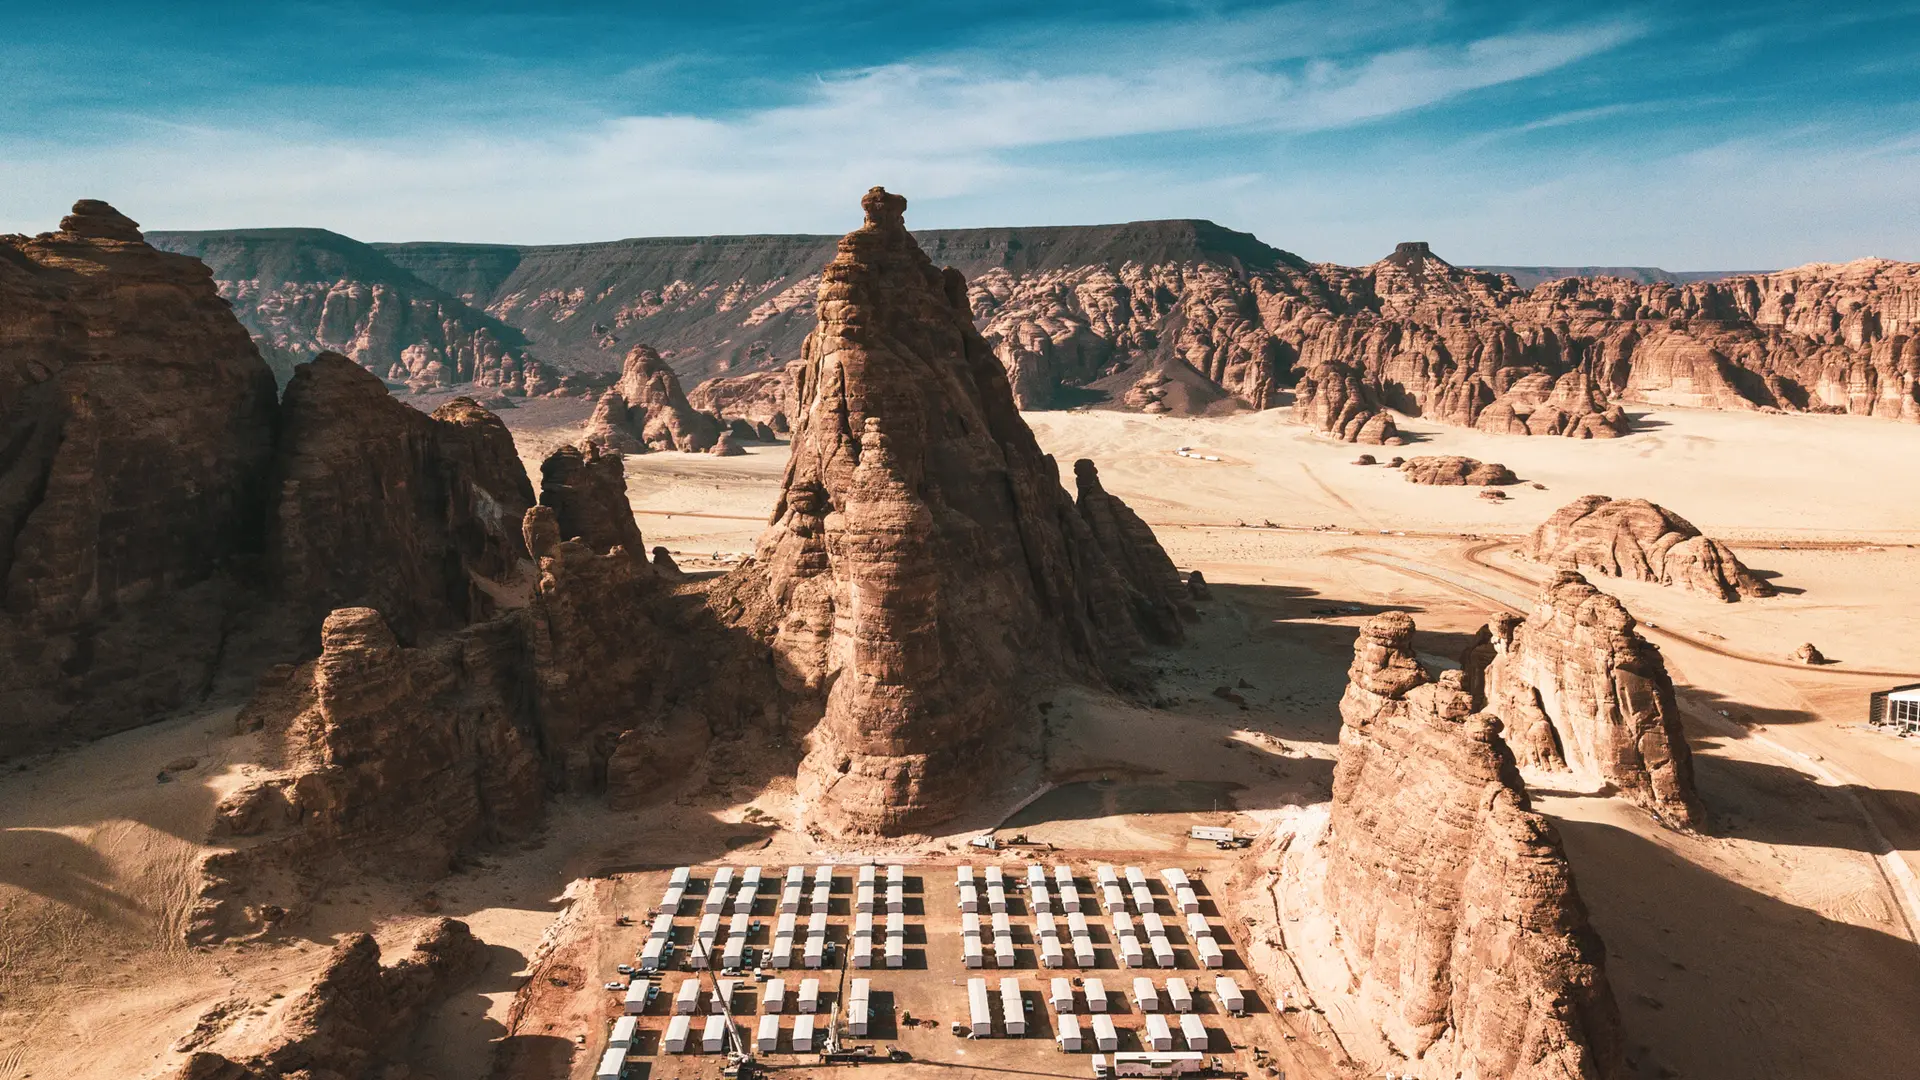
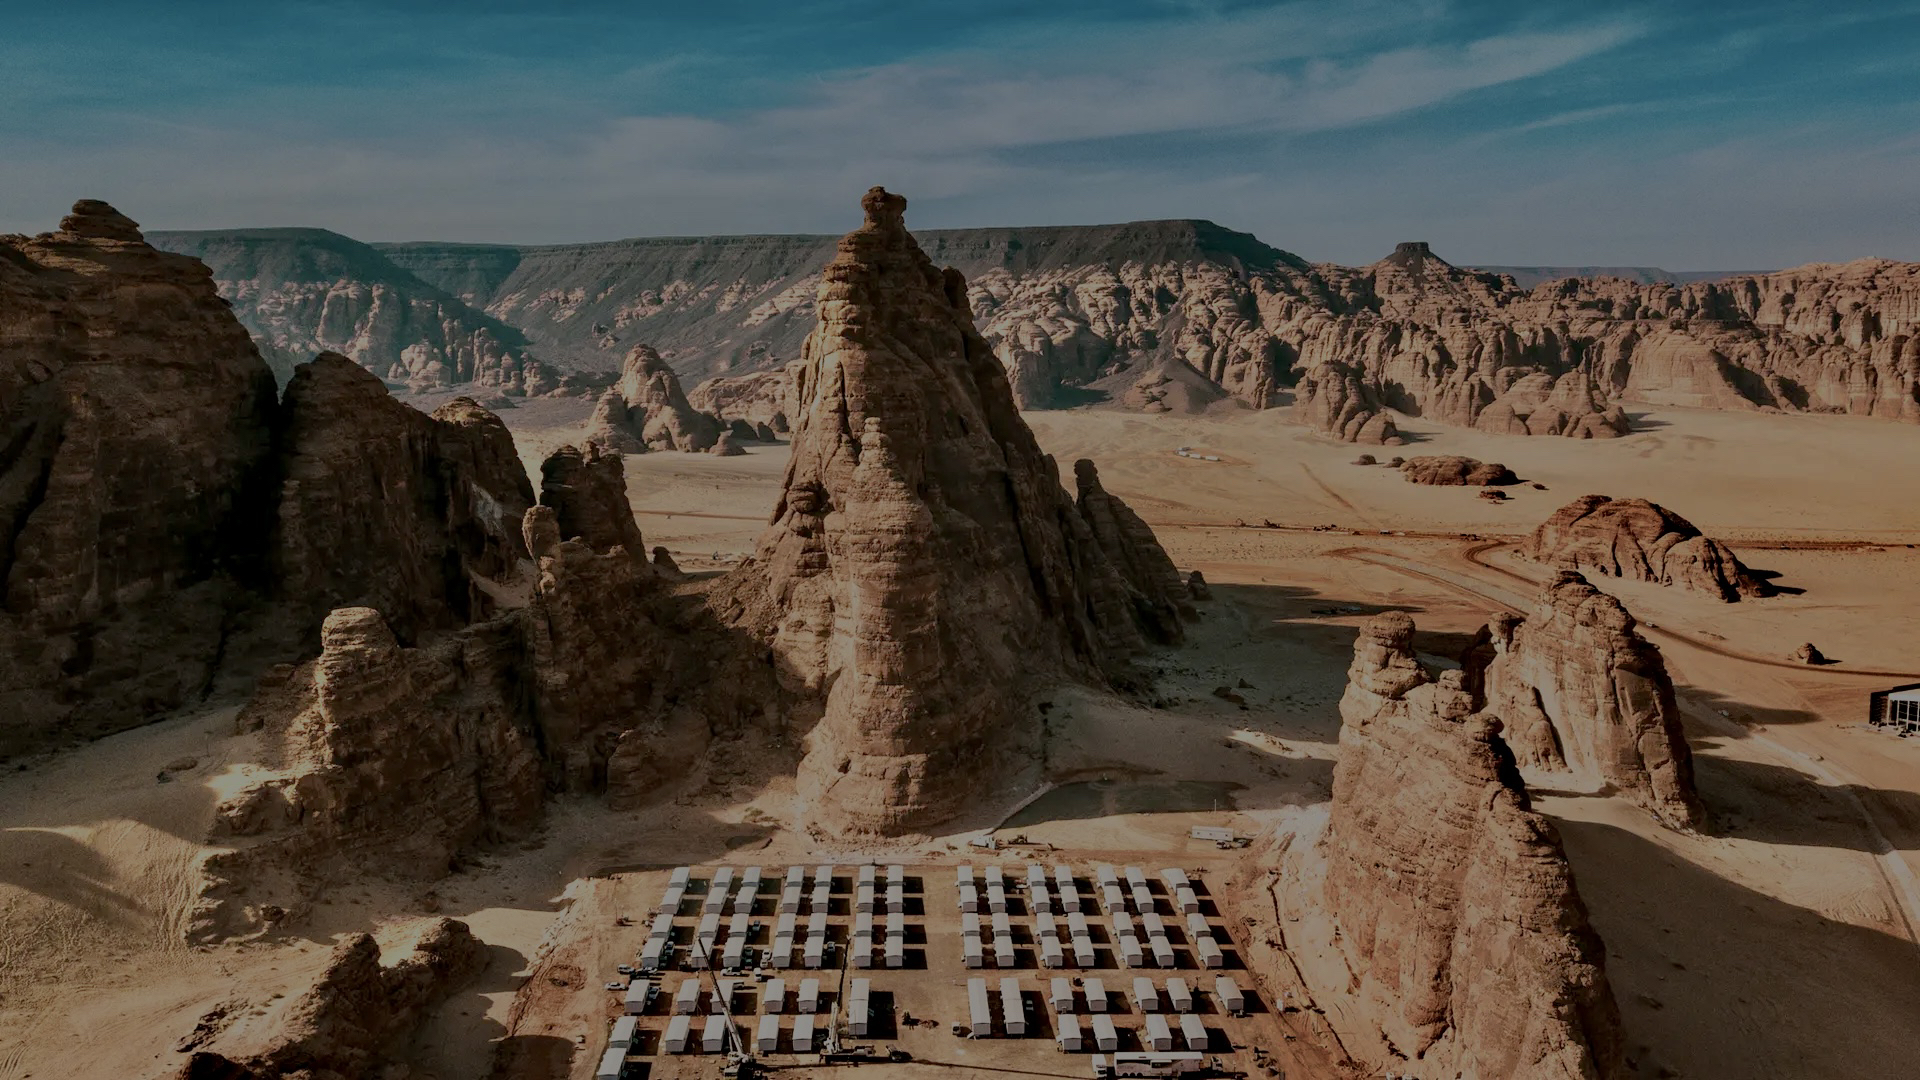
wow

diff --git a/Fursan-Islands/html/index.html b/Fursan-Islands/html/index.html
@@ -1,20 +1,25 @@
 <!DOCTYPE html>
-<html lang="ar">
+<html lang="en">
+
 <head>
     <meta charset="UTF-8">
     <meta name="viewport" content="width=device-width, initial-scale=1.0">
-    <title>تسجيل الدخول</title>
-    <link rel="stylesheet" href="../css/login.css">
+    <title>جزر فرسان</title>
     <link rel="stylesheet" href="/fonts/css/all.min.css">
     <link rel="icon" href="/home-page/imges/icon.png">
     <link rel="stylesheet" href="/Shared files/style.css">
     <link href="https://unpkg.com/aos@2.3.1/dist/aos.css" rel="stylesheet">
+    <link rel="stylesheet" href="../css/style.css">
+    <script type="text/javascript" src="../html5countrymapv4.2/mapdata.js"></script>
+    <script type="text/javascript" src="../html5countrymapv4.2/countrymap.js"></script>
 </head>
+
 <body>
     <header>
         <div data-aos="fade-right">
             <button>
                 <svg xmlns="http://www.w3.org/2000/svg" width="21" height="13" viewBox="0 0 21 13" fill="none">
+                    <path d="M0.8125 0.625L10.5 12.25L20.1875 0.625H0.8125Z" fill="#C0C0C0" />
                     <path d="M0.8125 0.625L10.5 12.25L20.1875 0.625H0.8125Z" fill="#C0C0C0" />
                 </svg>
                 العربية
@@ -27,7 +32,7 @@
                     <li id="tur">Türkçe</li>
                 </ul>
             </button>
-            <i class="fa-regular fa-circle-user" id="u9"></i>
+            <i class="fa-regular fa-circle-user" id="u3"></i>
             <i class="fa-regular fa-heart"></i>
         </div>
         <!-- روابط القائمة العلوية -->
@@ -37,11 +42,11 @@
                         من نحن
                     </a></li>
                 <hr>
-                <li data-aos="fade-down"><a href="/ksa/html/ksa.html">
-                     المناطق
-                </a></li>
+                <li data-aos="fade-down"><a href="">
+                        المناطق
+                    </a></li>
                 <hr>
-                <li data-aos="fade-down"><a href="/captin/html/captin.html">
+                <li data-aos="fade-down"><a href="">
                         احجز كابتن
                     </a></li>
                 <hr>
@@ -92,16 +97,35 @@
         </div>
     </header>
     <main>
-        <img src="../imges/login.svg" alt="">
         <section>
-            <form>
-                <h2>! مرحباً بعودتك</h2>
-                <input type="text" placeholder="اسم المستخدم" id="username">
-                <input type="password" placeholder="كلمة المرور" id="password">
-                <a id="log-in-og">دخول</a>
-                <p>ليس لديك حساب <a href="sign-in.html">اشترك الان</a></p>
-            </form>
+
         </section>
+        <section>
+            <hgroup>
+                <h1>جزر <span>فرسان</span></h1>
+                <p>
+                    <br>
+                    جزر فرسان هي مجموعة من الجزر تقع في جنوب البحر الأحمر، وتتبع منطقة جازان في جنوب غرب المملكة العربية
+                    السعودية. تشتمل هذه المجموعة على عدة جزر، منها جزيرة فرسان، والسقيد، وقماح، ودمسك، وزفاف، ودوشك،
+                    وكيرة، وجزيرة سلوبة. تحتوي جزر فرسان على العديد من الآثار الهامة، مثل القلعة البرتغالية، ومباني
+                    غرين، ومسجد النجدي، ووادي مطر، ومنزل الرفاعي، وبيت الجرمل والكدمي، وقلعة لقمان، والعرضي.
+                    <br>
+                    <br>
+                    تاريخيًا، تأثرت جزر فرسان بالحضارات التي كانت موجودة في جنوب جزيرة العرب، وقد تم الكشف عن بعض الآثار
+                    التي تعود إلى عهد مملكة حمير. تشير هذه الآثار إلى الارتباط القديم لجزر فرسان بالحضارات التي كانت
+                    تهتم بالتجارة. ويعود هذا الارتباط إلى دور الجزر كمحطة تقاء واستراحة للرحلات التجارية التي كانت
+                    غالبًا موسمية بناءً على هبوب الرياح. بفضل هذا الدور التجاري، استقروا السكان في جزر فرسان وأثروا
+                    فيها.
+                    <br>
+                    <br>
+                    بالنسبة للوجود البرتغالي على الجزيرة، فإن البرتغاليين ربما تعرفوا إلى جزر فرسان وزاروها، على الرغم
+                    من أن فترة وجودهم هناك لم تكن طويلة. يعزى هذا إلى نشاط المماليك في البحر الأحمر، الذي قد يكون أثر
+                    على ترك البرتغاليين لبصمات أثرية قليلة على الجزيرة. القرب الجغرافي لجزيرة فرسان من دهلك وميناء مصوع
+                    ربما كان له دور في عدم بناء البرتغاليين حصونًا في هذه الجزيرة.
+                </p>
+            </hgroup>
+        </section>
+
     </main>
     <footer>
         <div>
@@ -111,8 +135,8 @@
         <div>
             <ul>
                 <li><a href="/home-page/html/index.html">
-                    الرئيسية
-                </a></li>
+                        الرئيسية
+                    </a></li>
                 <hr>
                 <li>
                     <a href="/about-us/html/index.html">من نحن</a>
@@ -157,13 +181,13 @@
             <img src="/home-page/imges/f2-transformed-removebg-preview.png" alt="">
         </div>
     </footer>
-    <script src="https://cdn.jsdelivr.net/npm/sweetalert2@11"></script>
+    <script src="../js/script.js"></script>
     <script src="https://cdn.jsdelivr.net/npm/axios/dist/axios.min.js"></script>
     <script src="/Shared files/js/script.js"></script>
     <script src="https://unpkg.com/aos@2.3.1/dist/aos.js"></script>
     <script>
         AOS.init();
     </script>
-    <script src="../data/get.js"></script>
 </body>
+
 </html>

diff --git a/Shared files/js/script.js b/Shared files/js/script.js
@@ -15,54 +15,14 @@ main_click.onclick = () => {
 
 
 
-let eng = document.getElementById('eng');
-let fr = document.getElementById('fr');
-let esp = document.getElementById('esp');
-let ger = document.getElementById('ger');
-let itl = document.getElementById('itl');
-let tur = document.getElementById('tur');
-eng.onclick = () => {
-    document.body.innerText = `
-        
-        `
-}
+// let eng = document.getElementById('eng');
+// let fr = document.getElementById('fr');
+// let esp = document.getElementById('esp');
+// let ger = document.getElementById('ger');
+// let itl = document.getElementById('itl');
+// let tur = document.getElementById('tur');
+// eng.onclick = () => {
+//     document.body.innerText = `
 
-let log_in_og = document.getElementById('log-in-og');
-
-log_in_og.addEventListener('click', () => {
-    axios.get('https://6512d71cb8c6ce52b39655f8.mockapi.io/api/v1/users', username, password)
-        .then(res => {
-            let username = document.getElementById("username").value;
-            let password = document.getElementById("password").value;
-            console.log(res)
-            let api = res.data;
-            for (let i = 0; i < api.length; i++) {
-                let loop = api[i];
-
-                if (loop.password == password && loop.username == username) {
-                    Swal.fire({
-                        position: 'top-end',
-                        icon: 'success',
-                        title: 'تم تسجيل الدخول',
-                        showConfirmButton: false,
-                        timer: 1500
-                      })
-                      let homeGo = () => {
-                      window.location.href = '/home-page/html/index.html';
-                      }
-                      setTimeout(homeGo,1500)
-                } else {
-                    Swal.fire({
-                        position: 'top-start',
-                        icon: 'warning',
-                        title: 'اسم المستخدم او كلمة المرور غير صحيحة',
-                        showConfirmButton:true,
-                        timer: 1500
-                      })
-                };
-            }
-        })
-        .catch(err => {
-            console.error(err);
-        })
-})
+//         `
+// }

diff --git a/log-in-sign-in/data/get.js b/log-in-sign-in/data/get.js
@@ -1,0 +1,41 @@
+
+let log_in_og = document.getElementById('log-in-og');
+
+
+log_in_og.addEventListener('click', () => {
+    axios.get('https://6512d71cb8c6ce52b39655f8.mockapi.io/api/v1/users', username, password)
+        .then(res => {
+            let username = document.getElementById("username").value;
+            let password = document.getElementById("password").value;
+            console.log(res)
+            let api = res.data;
+            for (let i = 0; i < api.length; i++) {
+                let loop = api[i];
+
+                if (loop.password == password && loop.username == username) {
+                    Swal.fire({
+                        position: 'top-end',
+                        icon: 'success',
+                        title: 'تم تسجيل الدخول',
+                        showConfirmButton: false,
+                        timer: 1500
+                    })
+                    let homeGo = () => {
+                        window.location.href = '/home-page/html/index.html';
+                    }
+                    setTimeout(homeGo, 1500)
+                } else {
+                    Swal.fire({
+                        position: 'top-start',
+                        icon: 'warning',
+                        title: 'اسم المستخدم او كلمة المرور غير صحيحة',
+                        showConfirmButton: true,
+                        timer: 1500
+                    })
+                };
+            }
+        })
+        .catch(err => {
+            console.error(err);
+        })
+})

diff --git a/boulevard riyadh/html/index.html b/boulevard riyadh/html/index.html
@@ -4,7 +4,7 @@
 <head>
     <meta charset="UTF-8">
     <meta name="viewport" content="width=device-width, initial-scale=1.0">
-    <title>بوليفارد الرياض</title>
+    <title>الرياض</title>
     <link rel="stylesheet" href="/fonts/css/all.min.css">
     <link rel="icon" href="/home-page/imges/icon.png">
     <link rel="stylesheet" href="/Shared files/style.css">
@@ -62,7 +62,7 @@
                         الرئيسية
                     </a></li>
                 <li data-aos="fade-left">
-                    <img src="../imges/Free_Sample_By_Wix (2).jpg" class="logo">
+                    <img src="/home-page/imges/Free_Sample_By_Wix (2).png" class="logo">
                     <!-- الشعار -->
                 </li>
             </ul>
@@ -102,7 +102,7 @@
         </section>
         <section>
             <hgroup>
-            <h1>الرياض العاصمة</h1>
+            <h1><span>الرياض</span> العاصمة</h1>
             <p>
                 الرياض هي عاصمة المملكة العربية السعودية، وهي أكبر مدينة في المملكة وثالث أكبر عاصمة عربية من حيث عدد
                 السكان. تقع الرياض وسط شبه الجزيرة العربية في هضبة نجد، على ارتفاع 600 متر فوق مستوى سطح البحر، وتعد

diff --git a/log-in-sign-in/data/post.js b/log-in-sign-in/data/post.js
@@ -1,4 +1,5 @@
 let go = document.getElementById("go");
+
   go.addEventListener("click", () => {
   let name = document.getElementById("name").value;
   let email = document.getElementById("email").value;
@@ -11,11 +12,23 @@ let go = document.getElementById("go");
     email:email,
     password:password,
   };
+
+
   console.log(data);
   axios.post('https://6512d71cb8c6ce52b39655f8.mockapi.io/api/v1/users',data)
 .then(res => {
   console.log(res)
-})
+  Swal.fire({
+    position: 'center',
+    icon: 'success',
+    title: '!تم انشاء الحساب',
+    showConfirmButton: false,
+    timer: 1500
+  })
+  let homeGo = () => {
+    window.location.href = '/home-page/html/index.html';
+}
+setTimeout(homeGo, 1500)})
 .catch(err => {
   console.error(err); 
 })

diff --git a/log-in-sign-in/html/sign-in.html b/log-in-sign-in/html/sign-in.html
@@ -159,12 +159,13 @@
             <img src="/home-page/imges/f2-transformed-removebg-preview.png" alt="">
         </div>
     </footer>
+    <script src="https://cdn.jsdelivr.net/npm/sweetalert2@11"></script>
     <script src="https://cdn.jsdelivr.net/npm/axios/dist/axios.min.js"></script>
     <script src="/Shared files/js/script.js"></script>
     <script src="https://unpkg.com/aos@2.3.1/dist/aos.js"></script>
     <script>
         AOS.init();
     </script>
-    <script src="../data/script.js"></script>
+    <script src="../data/post.js"></script>
 </body>
 </html>

diff --git a/Fursan-Islands/css/style.css b/Fursan-Islands/css/style.css
@@ -1,7 +1,7 @@
 section:nth-child(1){
     width: 100%;
     height: 45vh;
-    background: url(https://www.rcrc.gov.sa/wp-content/uploads/2019/07/mainpic-4.jpg) top no-repeat;
+    background: url(../img/sabq_2022-03_322b6309-e59a-405d-99c9-c08076e98c2b_DC8ED83A_8CEA_445C_838E_733866B26ED1.webp) center no-repeat;
     background-size: cover;
 }
 section:nth-child(2){
@@ -16,7 +16,6 @@ section:nth-child(2) hgroup p{
     font-size: 1.3rem;
 }
 span{
-
     color: #956C9E;
 }
 

diff --git a/home-page/html/index.html b/home-page/html/index.html
@@ -132,7 +132,7 @@
                 <div class="card-img" data-aos="fade-up">
                     <h3>جزر فرسان</h3>
                     <p>جازان</p>
-                    <a href="">المزيد</a>
+                    <a href="../../Fursan-Islands/html/index.html">المزيد</a>
                 </div>
                 <div class="card-img" data-aos="fade-right">
                     <h3> العلا</h3>

diff --git a/log-in-sign-in/css/sign-in.css b/log-in-sign-in/css/sign-in.css
@@ -49,9 +49,13 @@ main section:nth-child(2) div input{
     font-size: 1rem;
     padding: 1%;
 }
+main section:nth-child(2) div input:focus{
+    outline: none;
+}
 main section:nth-child(2) div input::placeholder{
  color: aliceblue;   
  font-size: large;
+
 }
 main section:nth-child(2) div > a{
 width: 40%;

diff --git a/log-in-sign-in/css/login.css b/log-in-sign-in/css/login.css
@@ -49,6 +49,9 @@ main section:nth-child(2) form input{
     font-size: 1rem;
     padding: 1%;
 }
+main section:nth-child(2) form input:focus{
+    outline: none;
+}
 main section:nth-child(2) form input::placeholder{
  color: aliceblue;   
  font-size: large;
